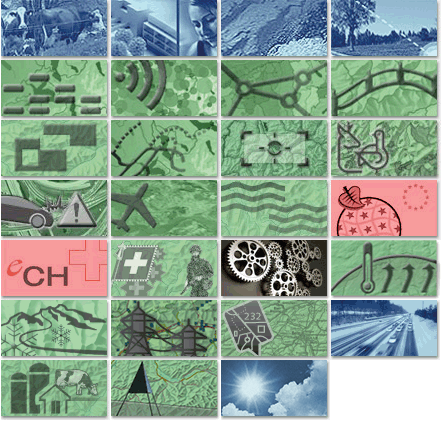
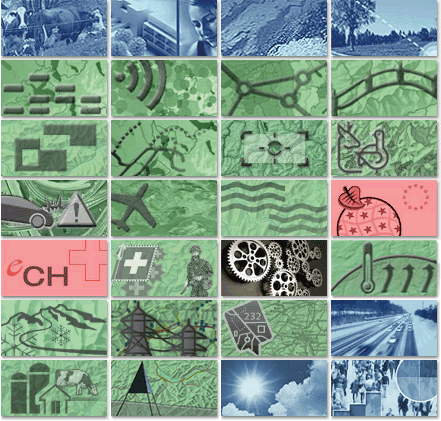
added BFS to topic

Changed region(s): [[0.737, 0.8337, 1.0, 1.0], [0.7664, 0.4632, 0.8254, 0.4941]]

diff --git a/src/components/topic/style/topic.less b/src/components/topic/style/topic.less
@@ -171,7 +171,12 @@
   .ga-topics-sprite-emapis {
     background-position: 0px -360px;
   }
+
   .ga-topics-sprite-meteoschweiz {
     background-position: -220px -360px;
+  }
+
+  .ga-topics-sprite-bfs {
+    background-position: -330px -360px;
   }
 }
